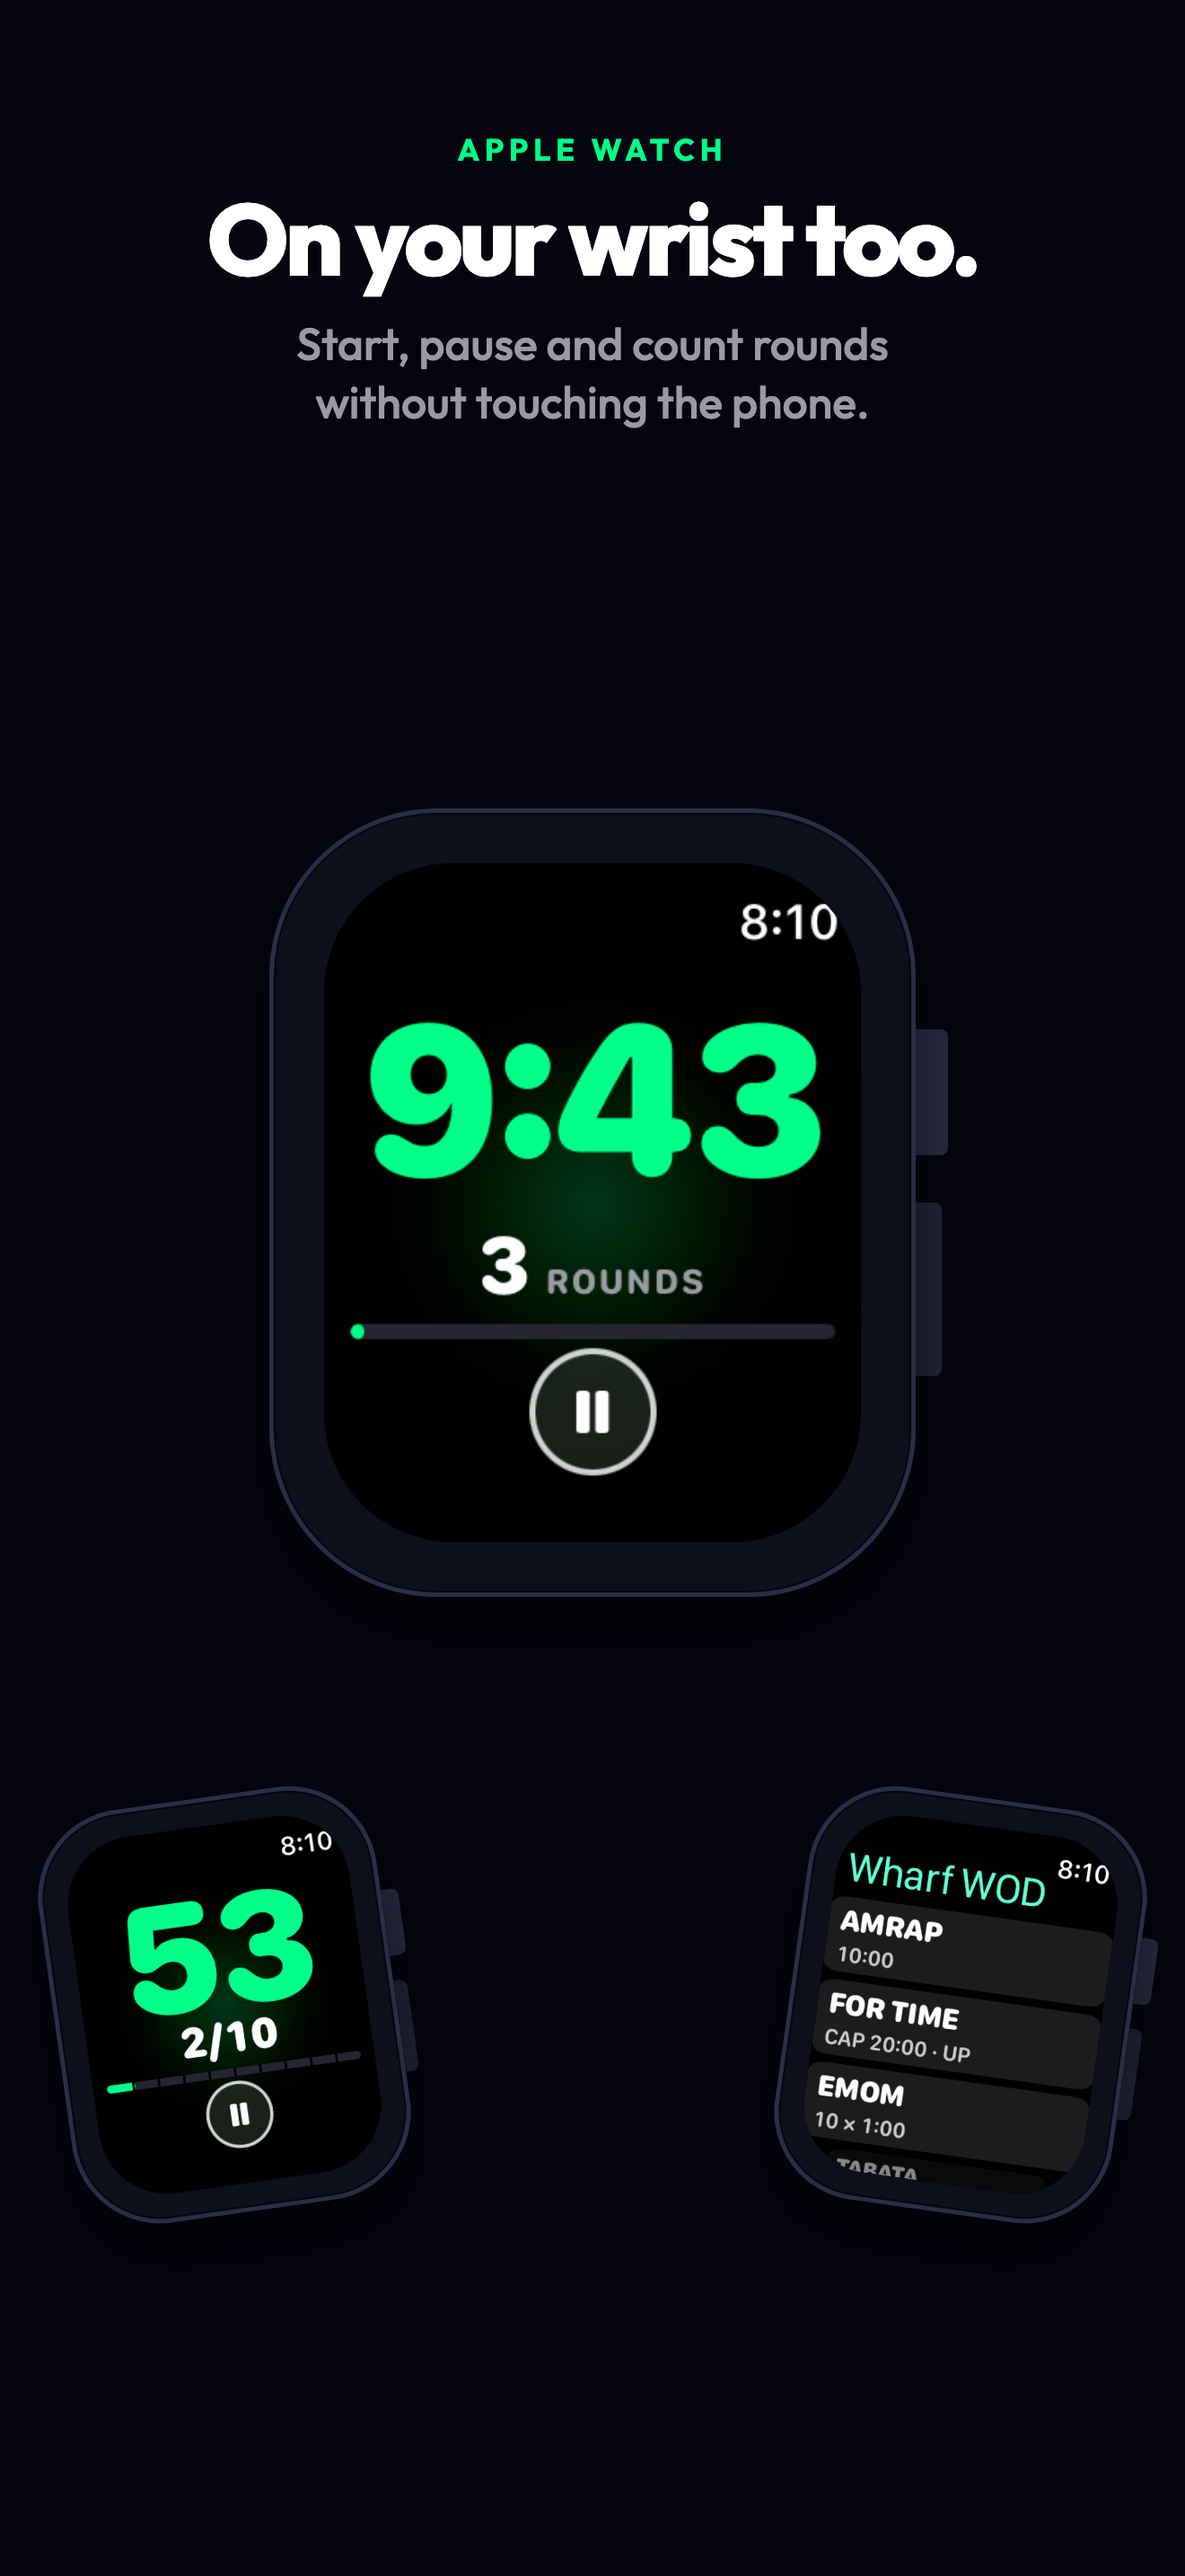
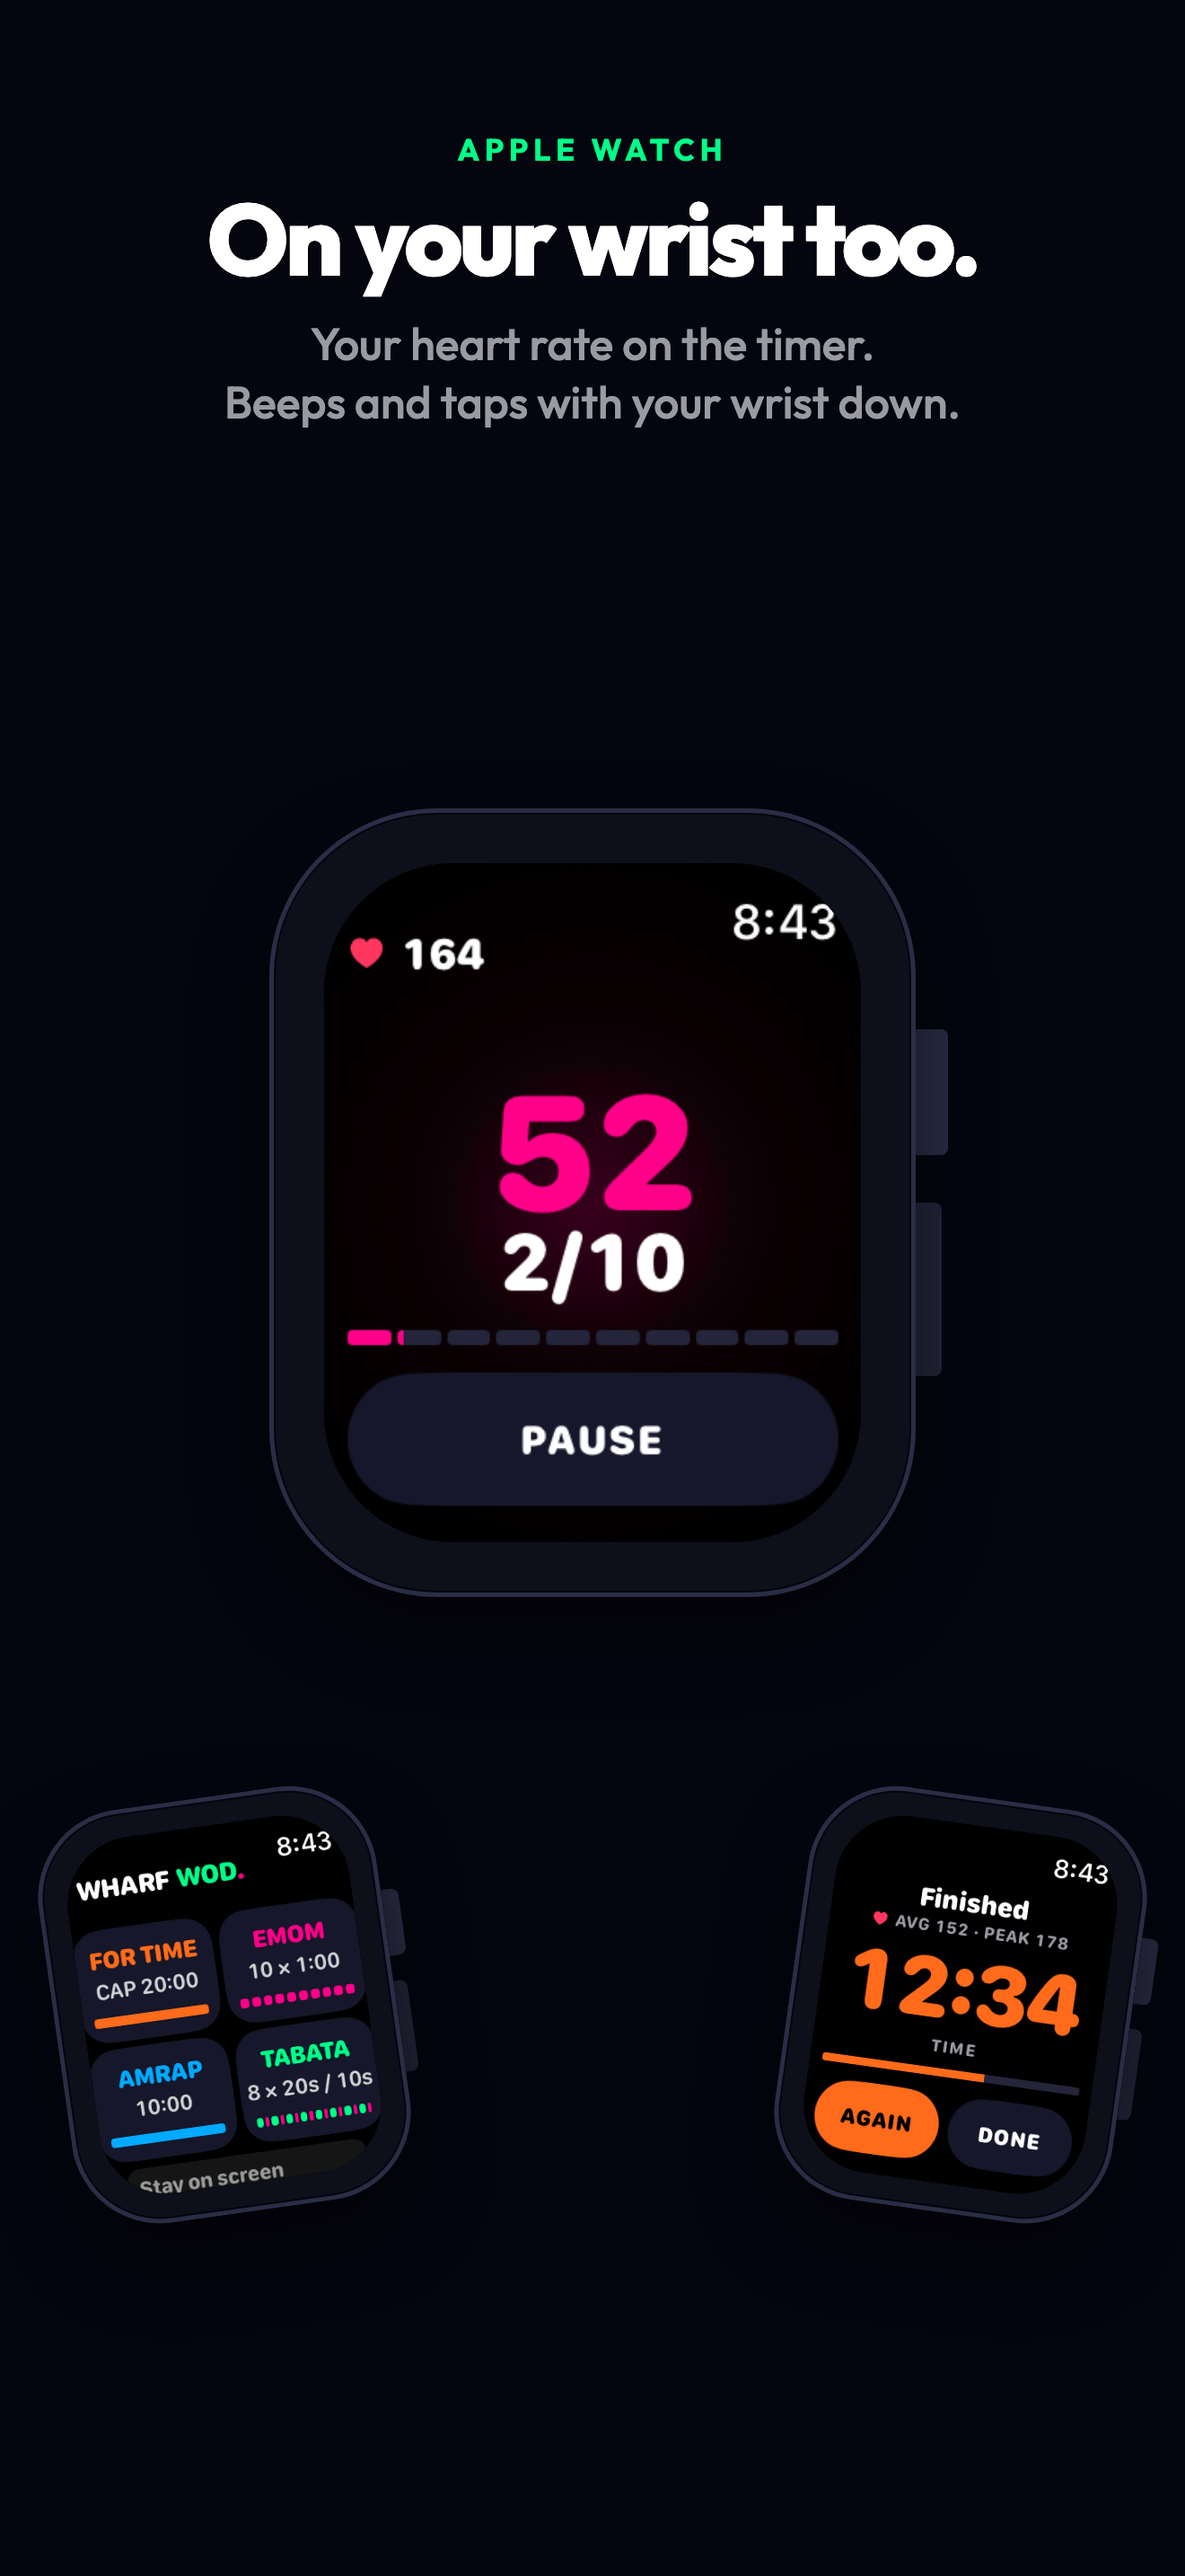
2.7.0: version, What's New, the Apple Watch store set and the wrist frame
- pubspec and the watch's MARKETING_VERSION to 2.7.0; What's New for the
  App Store (heart rate, Home with all four timers, setup that fits).
- fastlane/screenshots-watch/en-US: eight 368x448 captures of the 2.7.0
  watch app (Home, EMOM, Tabata work, AMRAP and For Time with the heart
  rate, EMOM setup, Tabata next, a finished For Time with average and
  peak). The live set had no session glyph and the old Home; the three
  watch_*.png beside the phone frames dated from 1.3.0 and are replaced.
- Store frame 7 ("On your wrist too.") on both stores: the watches are the
  2.7.0 app (the App Store's had shown the 1.3.0 green clock since 31 Oct),
  and the App Store proof leads with the heart rate. Frames 1 to 6 and 8
  re-rendered pixel-identical to the live sets.
- Backlog: the 2.7.0 entry.

diff --git a/docs/BACKLOG_next.md b/docs/BACKLOG_next.md
@@ -2,43 +2,57 @@
 
 Notes from Gareth to pick up in the next set of changes. Add new items here as they come in; move each into the release's plan or spec when the build starts.
 
-## Built on review/watch-experience-2026-11-26 (26 Nov 2026), not merged, not shipped
+## 2.7.0 (26 Nov 2026): the watch release
 
-From a review of both watch apps. Three fixes, each with tests:
+From a review of both watch apps (Gareth, 26 Nov: "address major experience
+flaws or bugs", then "build them all and ship them all together").
 
-- **Wear OS: the timer keeps ticking with the screen off.** The foreground
-  service kept the process, but nothing kept the processor: with a workout
-  running and the screen off, `dumpsys power` listed no wake lock of ours, so
-  a real watch may suspend and the beeps and taps stop until the wrist comes
-  back (an emulator never suspends, so no run showed it). A partial wake lock
-  (`AwakeHold`) is held from START to the end, let go while paused, and
-  always time-limited to the workout plus a minute. No new permission
-  (`WAKE_LOCK` was already declared). Wants a real-watch check: wrist down
-  for a whole EMOM, every round felt.
-- **Wear OS: the Back button no longer loses the timer.** Back on the live
-  screen (the lower key on a Galaxy Watch) popped to the setup screen while
-  the workout ran on behind it, and the watch-face chip only brought the
-  setup screen back. Back now does nothing while a workout is under way or
-  paused, and is DONE on the end screen (`TimerViewModel.back`).
+- **Apple Watch: heart rate.** On the timer, in the session glyph's slot,
+  while the clock runs; the workout's average and peak on the end screen in
+  the config line's place (a time cap shows both). Read from the Health
+  session's own builder, so the numbers are the ones Health shows. The app
+  asks to read the heart rate on Home, never over a countdown, reads nothing
+  else and keeps no copy. A reading older than 15 s, a pause and the end show
+  no number. New purpose strings; the privacy page and the App Review notes
+  say the same. Wear OS has no heart rate yet: it needs the body sensor
+  permission and Play's Health declaration.
+- **Apple Watch: Home is a 2x2.** The wordmark on one line in the top bar and
+  the four timers as tiles that fill the safe area, as on Wear OS: every
+  watch shows all four at once (a 40mm showed one and a half, a 49mm two).
+  The For Time tile leaves its direction to the setup screen.
 - **Apple Watch: EMOM and Tabata setup fit the screen.** Since RUN IN
   WORKOUT joined START (2.3.0) the stacked values overflowed: labels over the
-  title and back button, values at about 12pt on a 40mm and 20pt on a 49mm. They
-  sit in one row sized from the room the row really has (`SetupValueRow`):
-  EMOM 26pt on a 40mm to 43pt on a 49mm, Tabata 18pt to 26pt. Both capsules
-  are unchanged. The setup capture scenes are now pushed, as the app shows
-  them: as the root they hid the overlap.
-- `tool/wear/shape_check.sh` gained a third flow: the wake lock while
-  running, paused and stopped, and Back on the live, paused and end screens.
+  title and back button, values at about 12pt on a 40mm and 20pt on a 49mm.
+  They sit in one row sized from the room the row really has
+  (`SetupValueRow`): EMOM 26pt on a 40mm to 43pt on a 49mm, Tabata 18pt to
+  26pt. The setup capture scenes are now pushed, as the app shows them.
+- **Wear OS: the timer keeps ticking with the screen off.** The foreground
+  service kept the process, but nothing kept the processor: `dumpsys power`
+  listed no wake lock of ours, so a real watch may suspend and the beeps and
+  taps stop until the wrist comes back (an emulator never suspends). A
+  partial wake lock (`AwakeHold`) is held from START to the end, let go
+  while paused, always time-limited. Wants a real-watch check: wrist down
+  for a whole EMOM, every round felt.
+- **Wear OS: the Back button no longer loses the timer.** Back on the live
+  screen popped to setup while the workout ran on behind it. Back now does
+  nothing while a workout is under way or paused, and is DONE on the end
+  screen.
+- **Tests.** 211 watch unit tests, 77 Wear tests, `tool/wear/shape_check.sh`
+  with a third flow (wake lock and Back), and a UI test target that drives
+  the watch app with real touches (`WODTimerWatchUITests`): every tile opens
+  its setup, a workout runs from a tile to the end screen, and a real Health
+  session answers the permission sheet and shows a measured heart rate.
+- **Store screens.** The Apple Watch set (eight captures of 2.7.0, in
+  `fastlane/screenshots-watch/en-US/`), the wrist frame on both stores, the
+  13-inch iPad set and Play's two tablet sets were re-captured: see
+  `design/store-captions-2026-10/README.md`.
 
 Left for a decision, not built:
 
-- Apple Watch Home shows one and a half timers on a 40mm and two on a 49mm
-  under the wordmark; Wear OS has shown all four since 19 Nov (2x2).
 - A right swipe on the Wear live screen closes the app to the watch face (the
   workout runs on and the chip brings it back): the window's own
   swipe-to-dismiss, which `userSwipeEnabled = false` does not stop.
-- **Recommended next feature: heart rate.** Live on the timer and as average
-  and peak on the end screen. See "Still open".
+- Heart rate on Wear OS (BODY_SENSORS and the Play Health declaration).
 
 ## Shipped as 2.5.1 (15 Nov 2026): end screens lifted, with fact tiles
 
@@ -107,9 +121,6 @@ Left for a decision, not built:
   Rides the 2.4.0 release with the wrist alerts.
 
 ## Still open
-
-- Heart rate on the watch live screen (the session already collects it; a
-  read permission and one line of UI).
 
 - Record "Round 2", "Round 3" and so on, plus "Well done", if wanted (EMOM says "Next round" today).
 
